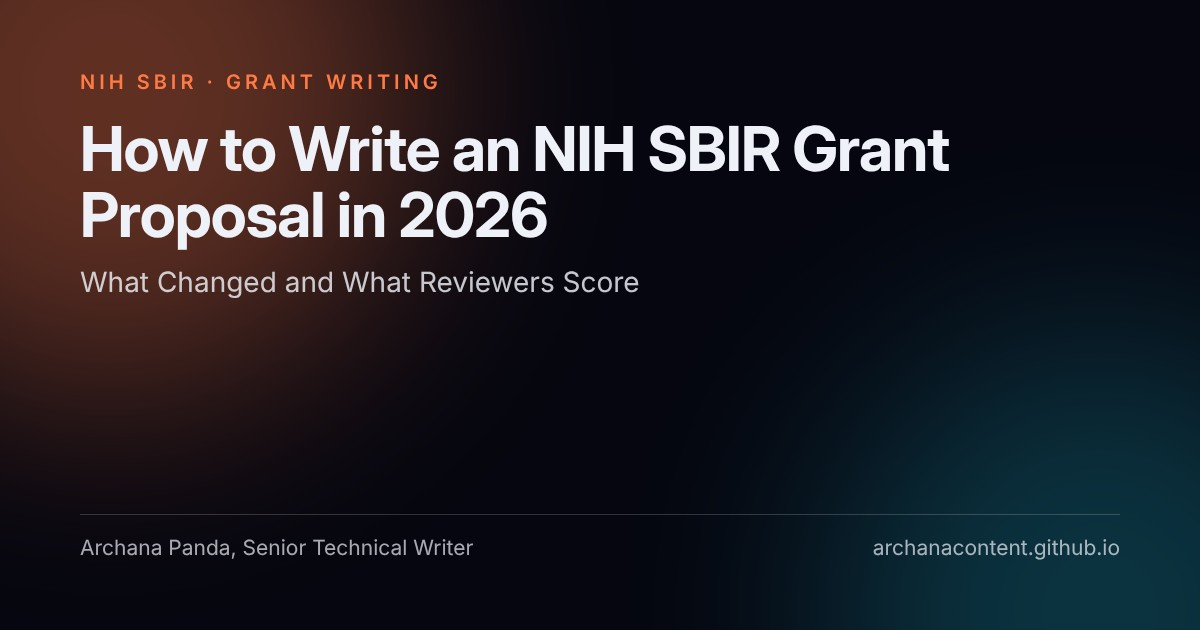
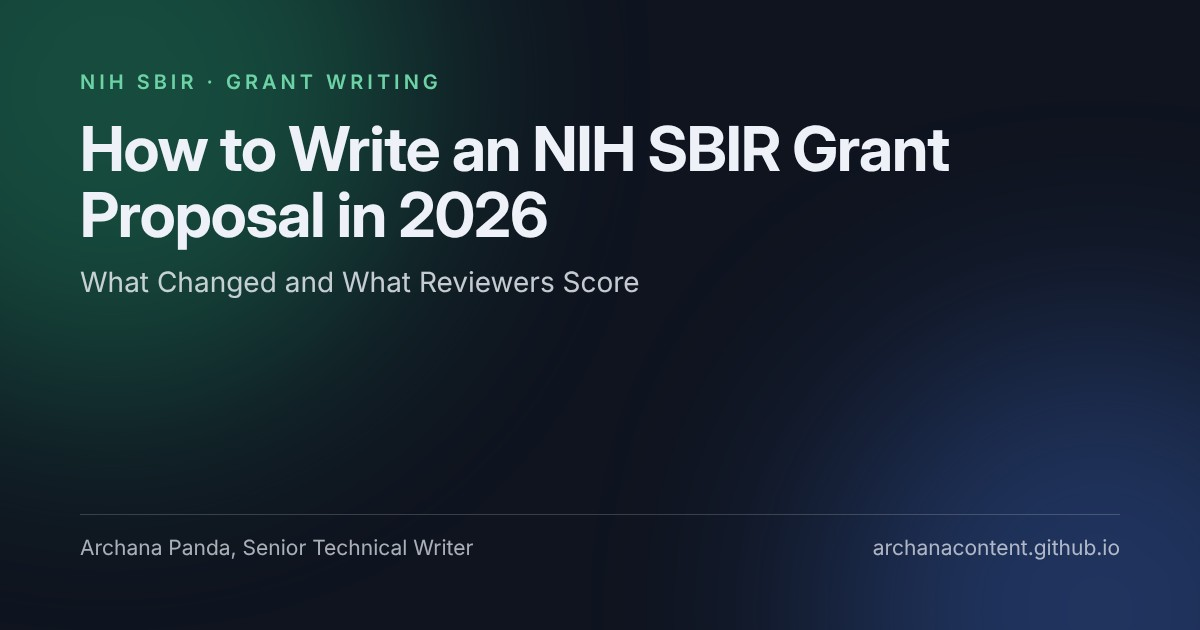
Match NIH SBIR article colours to the guide, drop photo credit

Changed region(s): [[0.0, 0.0, 0.37, 0.6635], [0.7092, 0.573, 1.0, 1.0]]

diff --git a/articles/how-to-write-nih-sbir-proposal-2026/index.html b/articles/how-to-write-nih-sbir-proposal-2026/index.html
@@ -22,17 +22,17 @@
 <script type="application/ld+json">{"@context": "https://schema.org", "@type": "Article", "headline": "How to Write an NIH SBIR Grant Proposal in 2026: What Changed and What Reviewers Score", "description": "How to write an NIH SBIR grant proposal under the 2026 rules, from the reauthorization and the nine-application limit to Specific Aims, the Commercialization Plan and 2027 deadlines.", "datePublished": "2026-11-09", "dateModified": "2026-11-09", "author": {"@type": "Person", "name": "Archana Panda", "jobTitle": "Senior Technical Writer", "url": "https://archanacontent.github.io/"}, "image": "https://archanacontent.github.io/articles/how-to-write-nih-sbir-proposal-2026/og.jpg", "mainEntityOfPage": "https://archanacontent.github.io/articles/how-to-write-nih-sbir-proposal-2026/", "about": ["NIH SBIR grant", "SBIR reauthorization 2026", "SBIR application limit", "SBIR vs STTR", "Specific Aims", "SBIR Commercialization Plan", "NIH SBIR deadlines 2027"]}</script>
 <script type="application/ld+json">{"@context": "https://schema.org", "@type": "FAQPage", "mainEntity": [{"@type": "Question", "name": "Is SBIR reauthorized in 2026?", "acceptedAnswer": {"@type": "Answer", "text": "Yes. The Small Business Innovation and Economic Security Act became law on April 13, 2026, and it extends SBIR and STTR through September 30, 2031."}}, {"@type": "Question", "name": "How many SBIR applications can a company submit per year?", "acceptedAnswer": {"@type": "Answer", "text": "Up to nine SBIR and STTR applications per fiscal year, shared across NIH, CDC and FDA. A standard Phase II that follows an awarded Phase I doesn't count toward the limit."}}, {"@type": "Question", "name": "Can NIH accept a late SBIR application?", "acceptedAnswer": {"@type": "Answer", "text": "No, for due dates from May 25, 2026. The only exception is a federal system failure confirmed by the eRA Service Desk."}}, {"@type": "Question", "name": "How much is an NIH SBIR Phase I grant in 2026?", "acceptedAnswer": {"@type": "Answer", "text": "The SBA guideline is $335,937 for Phase I and $2,239,578 for Phase II. NCI, NIA, NIAID, NIGMS, NIMH, NINDS and NCCIH accept Phase I budgets up to $700,000."}}, {"@type": "Question", "name": "What is the difference between SBIR and STTR?", "acceptedAnswer": {"@type": "Answer", "text": "Under SBIR, your company does most of the work and employs the principal investigator. STTR needs a formal partnership with a research institution that performs at least 30% of the work."}}, {"@type": "Question", "name": "Does an SBIR Phase I application need a commercialization plan?", "acceptedAnswer": {"@type": "Answer", "text": "No. NIH doesn't allow a Commercialization Plan in a Phase I application, but reviewers still judge commercial potential under Significance."}}, {"@type": "Question", "name": "When are the NIH SBIR deadlines in 2027?", "acceptedAnswer": {"@type": "Answer", "text": "The standard due dates under PA-27-100 are January 5 and April 5, 2027, by 5:00 PM local time."}}]}</script>
 <style>
-:root{--bg:#05060F;--bone:#EEF1F8;--mute:rgba(238,241,248,.66);--faint:rgba(238,241,248,.38);
---orange:#FF7A45;--cyan:#22D3EE;--glass:rgba(255,255,255,.055);--glass-line:rgba(255,255,255,.155);
+:root{--bg:#0f141f;--bone:#EEF1F8;--mute:rgba(238,241,248,.66);--faint:rgba(238,241,248,.38);
+--orange:#6dd3a6;--cyan:#8ea9e8;--glass:rgba(255,255,255,.055);--glass-line:rgba(255,255,255,.155);
 --f-h:'Archivo',system-ui,sans-serif;--f-b:'Public Sans',system-ui,-apple-system,sans-serif;color-scheme:dark}
 *,*::before,*::after{box-sizing:border-box}
 html{-webkit-text-size-adjust:100%}
 body{margin:0;background:var(--bg);color:var(--bone);font-family:var(--f-b);font-weight:300;font-size:16px;line-height:1.7;-webkit-font-smoothing:antialiased}
 .field{position:fixed;inset:0;z-index:-1;pointer-events:none;overflow:hidden}
 .field i{position:absolute;border-radius:50%;filter:blur(90px);opacity:.32}
-.field .a{width:55vw;height:55vw;left:-15%;top:-15%;background:#FF7A45}
-.field .b{width:50vw;height:50vw;right:-18%;top:30%;background:#22D3EE;opacity:.18}
-a{color:var(--cyan);text-decoration:underline;text-decoration-color:rgba(34,211,238,.4);text-underline-offset:3px}
+.field .a{width:55vw;height:55vw;left:-15%;top:-15%;background:#1d7a58}
+.field .b{width:50vw;height:50vw;right:-18%;top:30%;background:#2c4a8a;opacity:.4}
+a{color:var(--cyan);text-decoration:underline;text-decoration-color:rgba(142,169,232,.4);text-underline-offset:3px}
 a:hover{text-decoration-color:var(--cyan)}
 :focus-visible{outline:2px solid var(--cyan);outline-offset:3px;border-radius:4px}
 .top{max-width:760px;margin:0 auto;padding:22px max(20px,env(safe-area-inset-right)) 0 max(20px,env(safe-area-inset-left));display:flex;justify-content:space-between;align-items:center;gap:12px}
@@ -58,20 +58,20 @@ tr:last-child td{border-bottom:0}
 figure{margin:24px 0} figure img{width:100%;height:auto;display:block;border-radius:12px;border:1px solid var(--glass-line)}
 figcaption{font-size:13px;color:var(--mute);margin-top:8px}
 hr{border:0;border-top:1px solid var(--glass-line);margin:44px 0}
-.cta{margin:8px 0 0;padding:24px;border-radius:16px;border:1px solid rgba(255,122,69,.45);background:linear-gradient(160deg,rgba(255,122,69,.14),rgba(255,255,255,.04));box-shadow:inset 0 1px 0 rgba(255,255,255,.22)}
+.cta{margin:8px 0 0;padding:24px;border-radius:16px;border:1px solid rgba(109,211,166,.45);background:linear-gradient(160deg,rgba(109,211,166,.14),rgba(255,255,255,.04));box-shadow:inset 0 1px 0 rgba(255,255,255,.22)}
 .cta-k{font-family:var(--f-h);font-size:12px;font-weight:700;letter-spacing:.14em;text-transform:uppercase;color:var(--orange);margin:0 0 8px}
-.btn{display:inline-block;margin-top:6px;padding:11px 18px;border-radius:999px;background:linear-gradient(180deg,#ff9a64,#FF7A45 60%,#ec5f2a);color:#1a0800;font-weight:600;font-size:14px;text-decoration:none;box-shadow:0 8px 24px rgba(255,122,69,.35),inset 0 1px 0 rgba(255,255,255,.45)}
+.btn{display:inline-block;margin-top:6px;padding:11px 18px;border-radius:999px;background:linear-gradient(180deg,#8fe0bc,#6dd3a6 60%,#1d7a58);color:#0c2a1f;font-weight:600;font-size:14px;text-decoration:none;box-shadow:0 8px 24px rgba(109,211,166,.35),inset 0 1px 0 rgba(255,255,255,.45)}
 .btn:hover{filter:brightness(1.06)}
 footer{max-width:760px;margin:0 auto;padding:0 20px 40px;font-size:13px;color:var(--faint)}
 footer a{color:var(--mute)}
 
 .intro p{font-size:17px}
-.note{margin:22px 0;padding:16px 18px;border-radius:12px;border:1px solid rgba(34,211,238,.35);background:linear-gradient(160deg,rgba(34,211,238,.10),rgba(255,255,255,.03))}
+.note{margin:22px 0;padding:16px 18px;border-radius:12px;border:1px solid rgba(142,169,232,.35);background:linear-gradient(160deg,rgba(142,169,232,.10),rgba(255,255,255,.03))}
 .note p{margin:0;color:var(--bone)}
 .note .nk{font-family:var(--f-h);font-size:11.5px;font-weight:700;letter-spacing:.14em;text-transform:uppercase;color:var(--cyan);margin:0 0 6px}
 .flow{list-style:none;padding:0;margin:24px 0;counter-reset:q;display:grid;gap:10px}
 .flow li{counter-increment:q;margin:0;padding:14px 16px 14px 56px;position:relative;border:1px solid var(--glass-line);border-radius:12px;background:var(--glass)}
-.flow li::before{content:counter(q);position:absolute;left:16px;top:14px;width:26px;height:26px;border-radius:50%;background:var(--orange);color:#1a0800;font-family:var(--f-h);font-weight:800;font-size:13px;display:flex;align-items:center;justify-content:center}
+.flow li::before{content:counter(q);position:absolute;left:16px;top:14px;width:26px;height:26px;border-radius:50%;background:var(--orange);color:#0c2a1f;font-family:var(--f-h);font-weight:800;font-size:13px;display:flex;align-items:center;justify-content:center}
 .flow .q{display:block;color:var(--bone);font-weight:500;margin-bottom:8px}
 .flow .a{display:flex;flex-wrap:wrap;gap:8px}
 .flow .a span{font-size:13.5px;padding:4px 11px;border-radius:999px;border:1px solid var(--glass-line);color:var(--mute)}
@@ -91,7 +91,7 @@ figure picture img{width:100%;height:auto;display:block;border-radius:12px;borde
 <p class="kicker">NIH SBIR · Grant Writing</p>
 <h1>How to Write an NIH SBIR Grant Proposal in 2026: What Changed and What Reviewers Score</h1>
 <p class="meta">Archana Panda, Senior Technical Writer · Published November 9, 2026 · Last updated November 9, 2026</p>
-<figure class="lead"><img src="lead.jpg" alt="A scientist in a white lab coat working on a laptop at a laboratory bench." width="1400" height="933" fetchpriority="high"><figcaption>Photo by <a target="_blank" rel="noopener" href="https://unsplash.com/photos/scientist-using-laptop-in-laboratory-8yS04veb1TQ">ThisisEngineering</a> on Unsplash</figcaption></figure>
+<figure class="lead"><img src="lead.jpg" alt="A scientist in a white lab coat working on a laptop at a laboratory bench." width="1400" height="933" fetchpriority="high"></figure>
 <div class="intro"><p>Health companies apply for NIH SBIR grants every year to fund the research that turns a promising idea into a product ready for patients and clinicians. An NIH (National Institutes of Health) SBIR (Small Business Innovation Research) grant gives US small businesses funding to develop health technologies with commercial potential, without taking any equity in return. The award is decided entirely on paper. Reviewers never see the lab or the prototype, so the strength of a project reaches them only through how clearly the application explains the problem, the innovation and the route to market. When that explanation falls short, a sound project is scored as a weaker one, and the team waits a full review cycle to try again. Since 2026, each of those attempts has carried more weight. HHS (US Department of Health and Human Services) now caps the number of SBIR and STTR (Small Business Technology Transfer) applications a company can file in a year, and NIH no longer accepts SBIR or STTR applications submitted after the deadline. With fewer attempts and no room for a late filing, the proposal deserves the same planning and scrutiny a team gives its experiments.</p></div>
 
 <h2>SBIR Reauthorization 2026: What Changed for NIH Applicants</h2>
